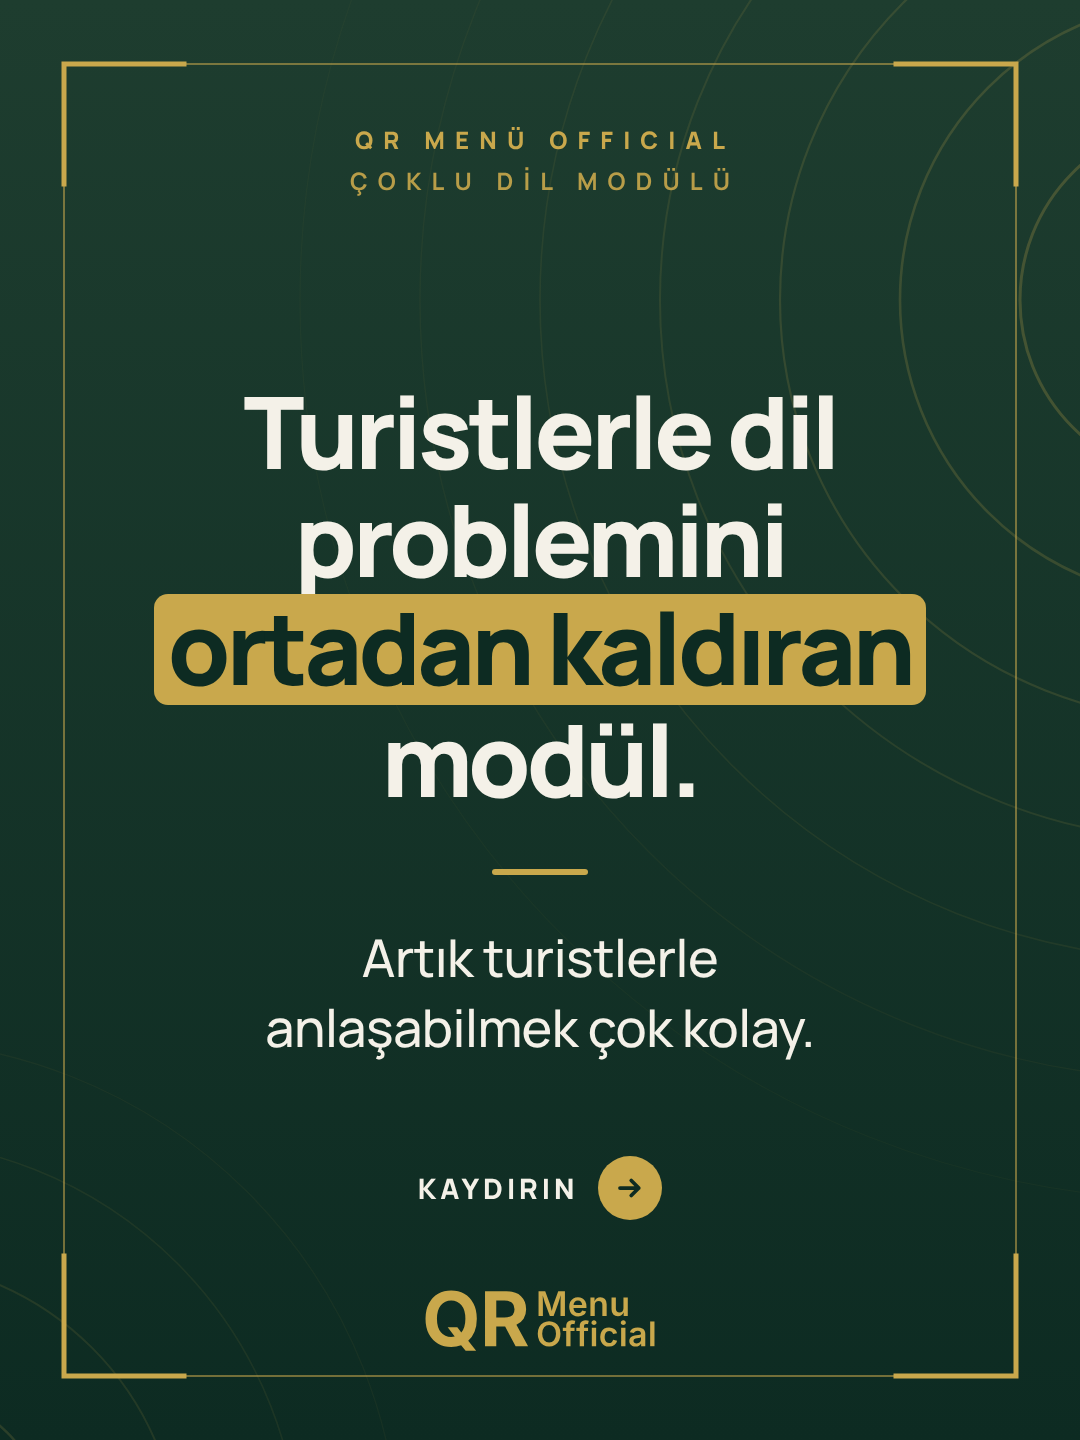
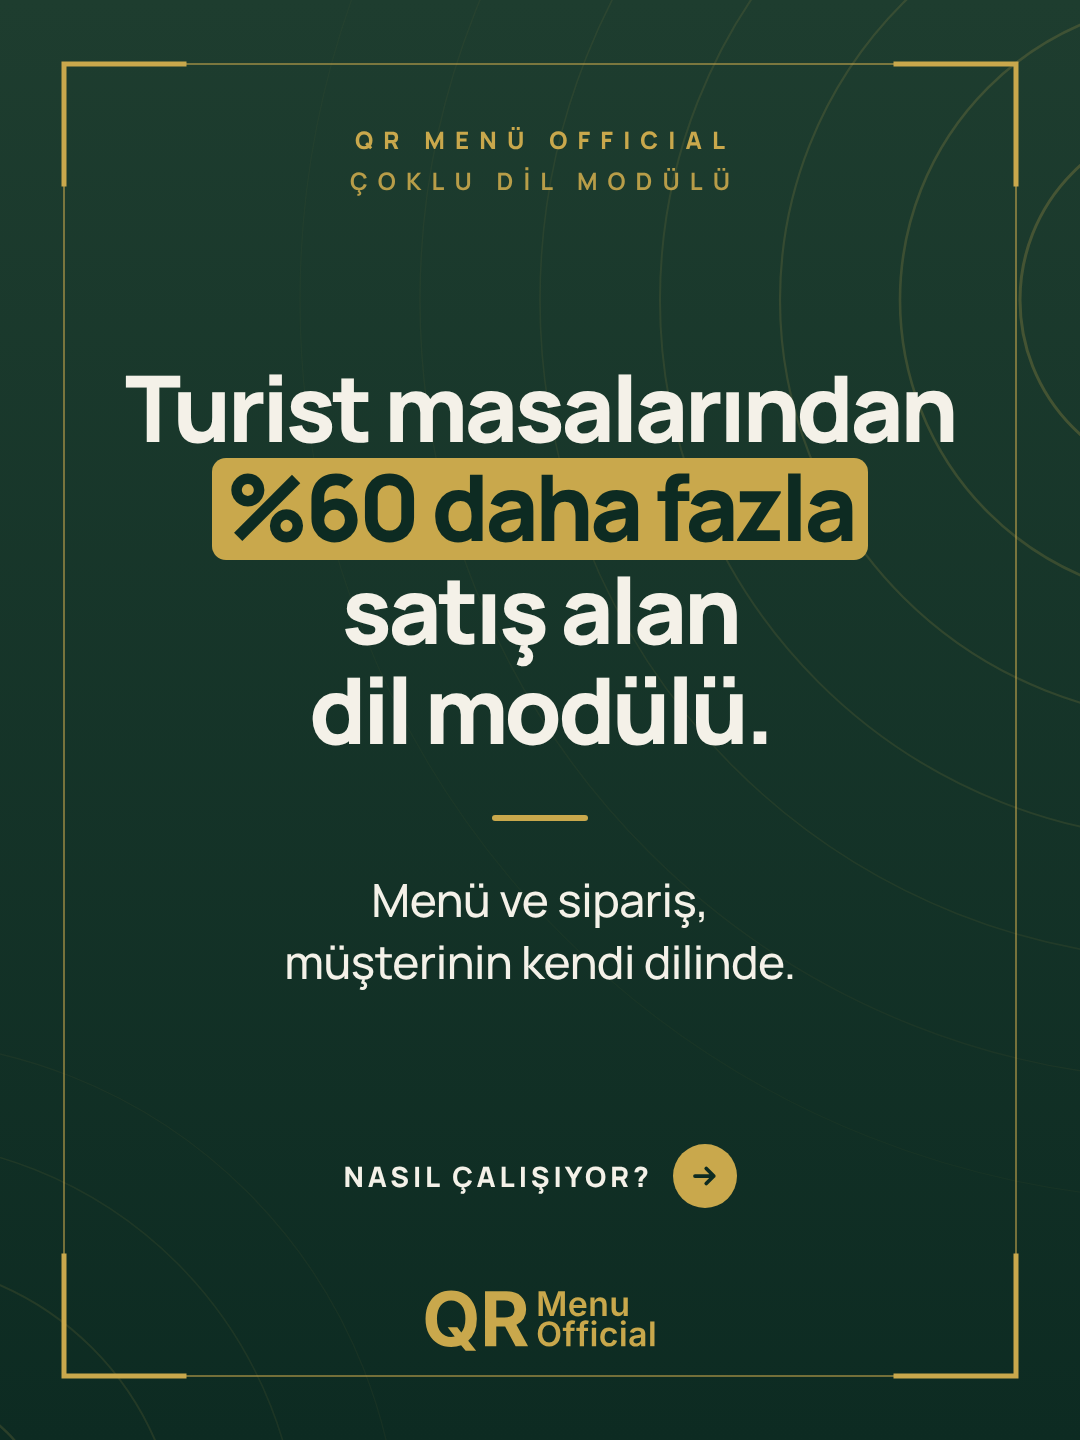
Carousel kapağı: satış odaklı başlık, alt düzen
Claude-Session: https://claude.ai/code/session_01FBw9rVwrniVjyFvtgVdFXq

Changed region(s): [[0.1222, 0.25, 0.8861, 0.75], [0.3056, 0.7812, 0.7028, 0.8438]]

diff --git a/analiz/carousel-dil/carousel-v4.html b/analiz/carousel-dil/carousel-v4.html
@@ -112,10 +112,10 @@ const MOD='QR MENÜ OFFICIAL<small>ÇOKLU DİL MODÜLÜ</small>';const FT='<div 
 const nx=(t,c)=>`<div class="nx">${t}<i>${ARW(c)}</i></div>`;
 const SL={
 1:{bg:'altin',html:()=>`<div class="lab">${MOD}</div>
- <div class="area c"><div class="h" id="H" data-max="100" data-min="84">${L(['Turistlerle dil','problemini','[[ortadan kaldıran]]','modül.'])}</div>
+ <div class="area c" style="top:210px;bottom:300px"><div class="h" id="H" data-max="92" data-min="76">${L(['Turist masalarından','[[%60 daha fazla]]','satış alan','dil modülü.'])}</div>
  <div class="rule" style="margin:56px 0 48px"></div>
- <div class="p" id="P" data-max="52" data-min="40">${L(['Artık turistlerle','anlaşabilmek çok kolay.'])}</div></div>
- <div class="logo">${LG()}</div>${nx('Kaydırın','#F4F1E8').replace('class="nx"','class="nx" style="bottom:220px"')}`},
+ <div class="p" id="P" data-max="46" data-min="38">${L(['Menü ve sipariş,','müşterinin kendi dilinde.'])}</div></div>
+ ${nx('Nasıl çalışıyor?','#F4F1E8').replace('class="nx"','class="nx" style="bottom:232px"')}<div class="logo">${LG()}</div>`},
 2:{bg:'krem',html:()=>`<div class="lab">${MOD}</div>
  <div class="area top"><div class="h" id="H" data-max="84" data-min="64">${L(['Bu 3 soruyu','kendinize [[sorun:]]'])}</div>
  <div class="qs">
